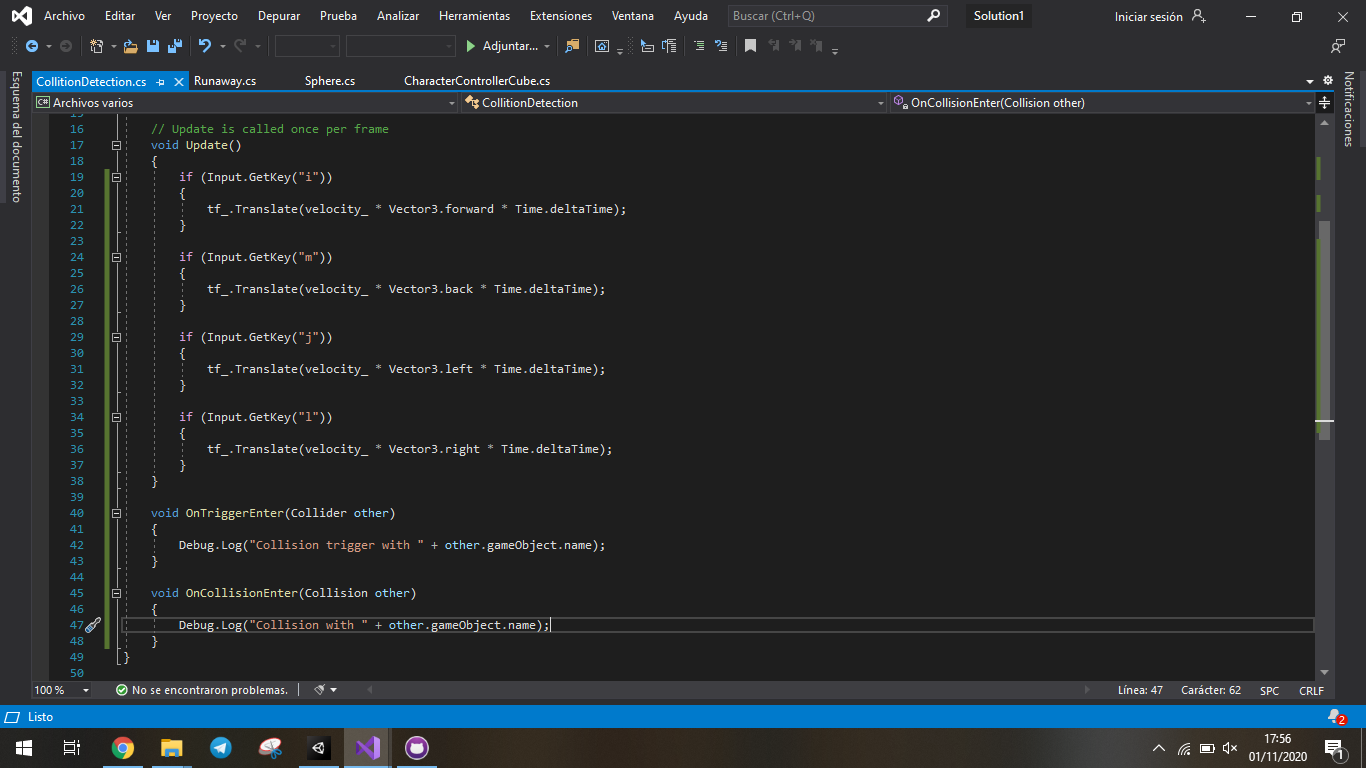
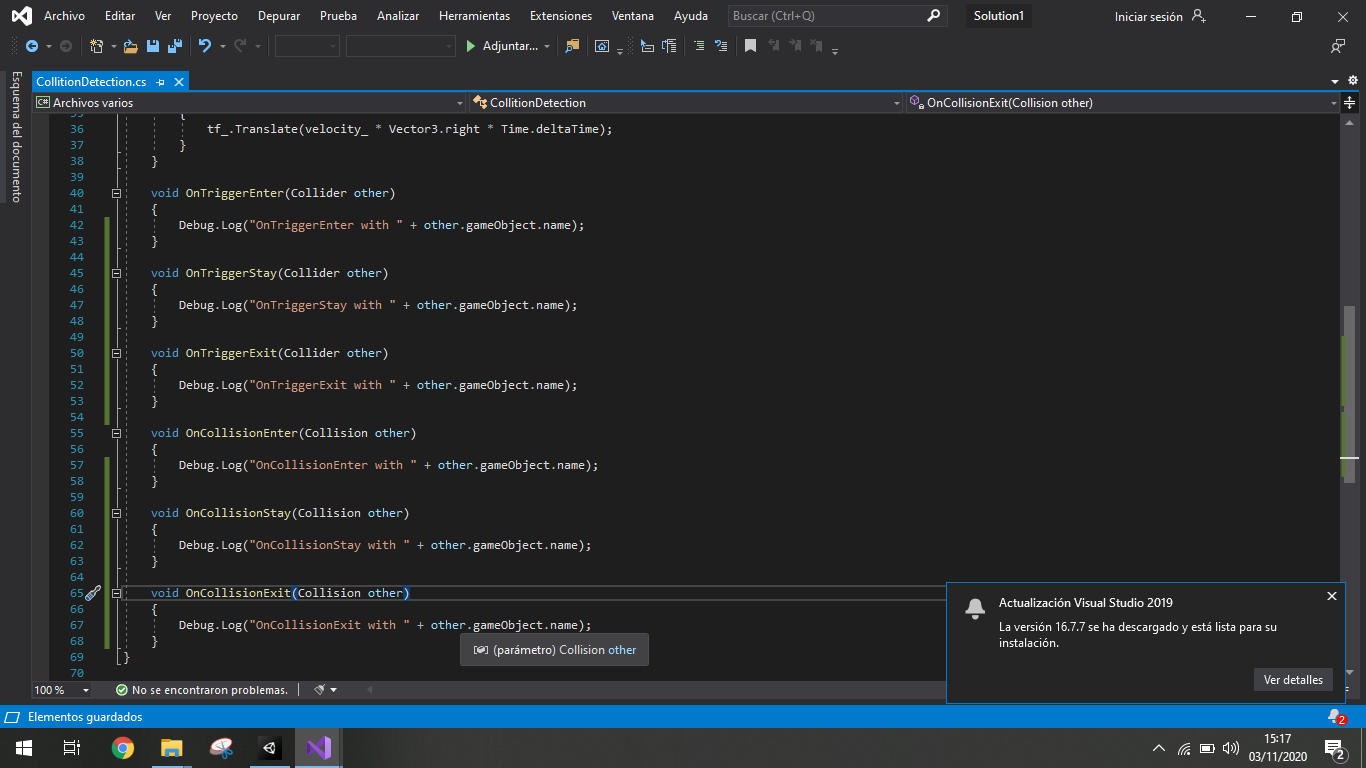
Correción 3c

diff --git a/CollitionDetection.cs b/CollitionDetection.cs
@@ -39,11 +39,31 @@ public class CollitionDetection : MonoBehaviour
 
     void OnTriggerEnter(Collider other)
     {
-        Debug.Log("Collision trigger with " + other.gameObject.name);
+        Debug.Log("OnTriggerEnter with " + other.gameObject.name);
+    }
+
+    void OnTriggerStay(Collider other)
+    {
+        Debug.Log("OnTriggerStay with " + other.gameObject.name);
+    }
+
+    void OnTriggerExit(Collider other)
+    {
+        Debug.Log("OnTriggerExit with " + other.gameObject.name);
     }
 
     void OnCollisionEnter(Collision other)
     {
-        Debug.Log("Collision with " + other.gameObject.name);
+        Debug.Log("OnCollisionEnter with " + other.gameObject.name);
+    }
+
+    void OnCollisionStay(Collision other)
+    {
+        Debug.Log("OnCollisionStay with " + other.gameObject.name);
+    }
+
+    void OnCollisionExit(Collision other)
+    {
+        Debug.Log("OnCollisionExit with " + other.gameObject.name);
     }
 }
